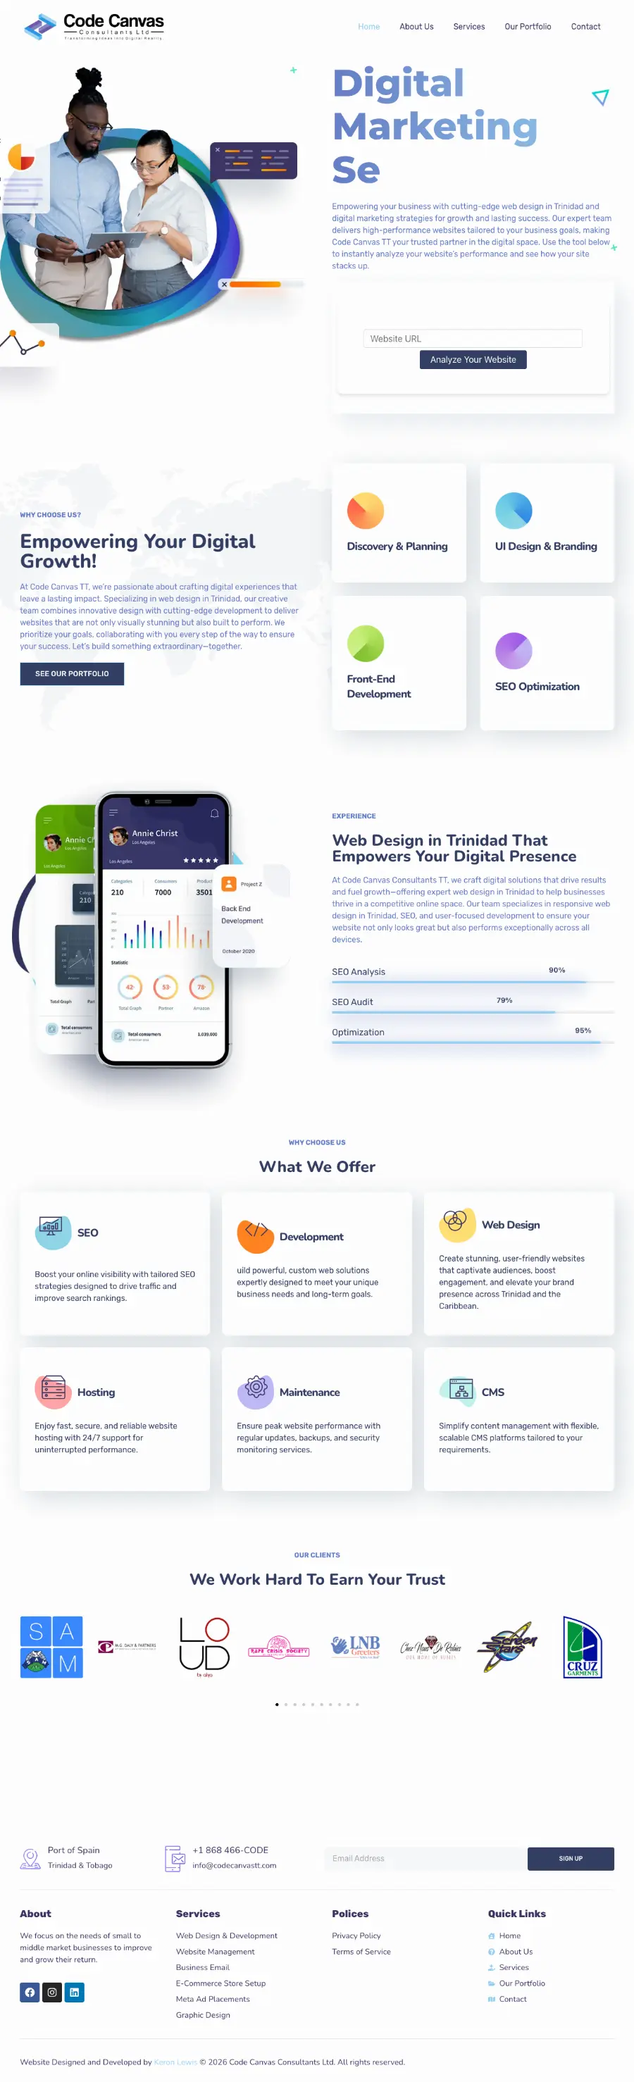
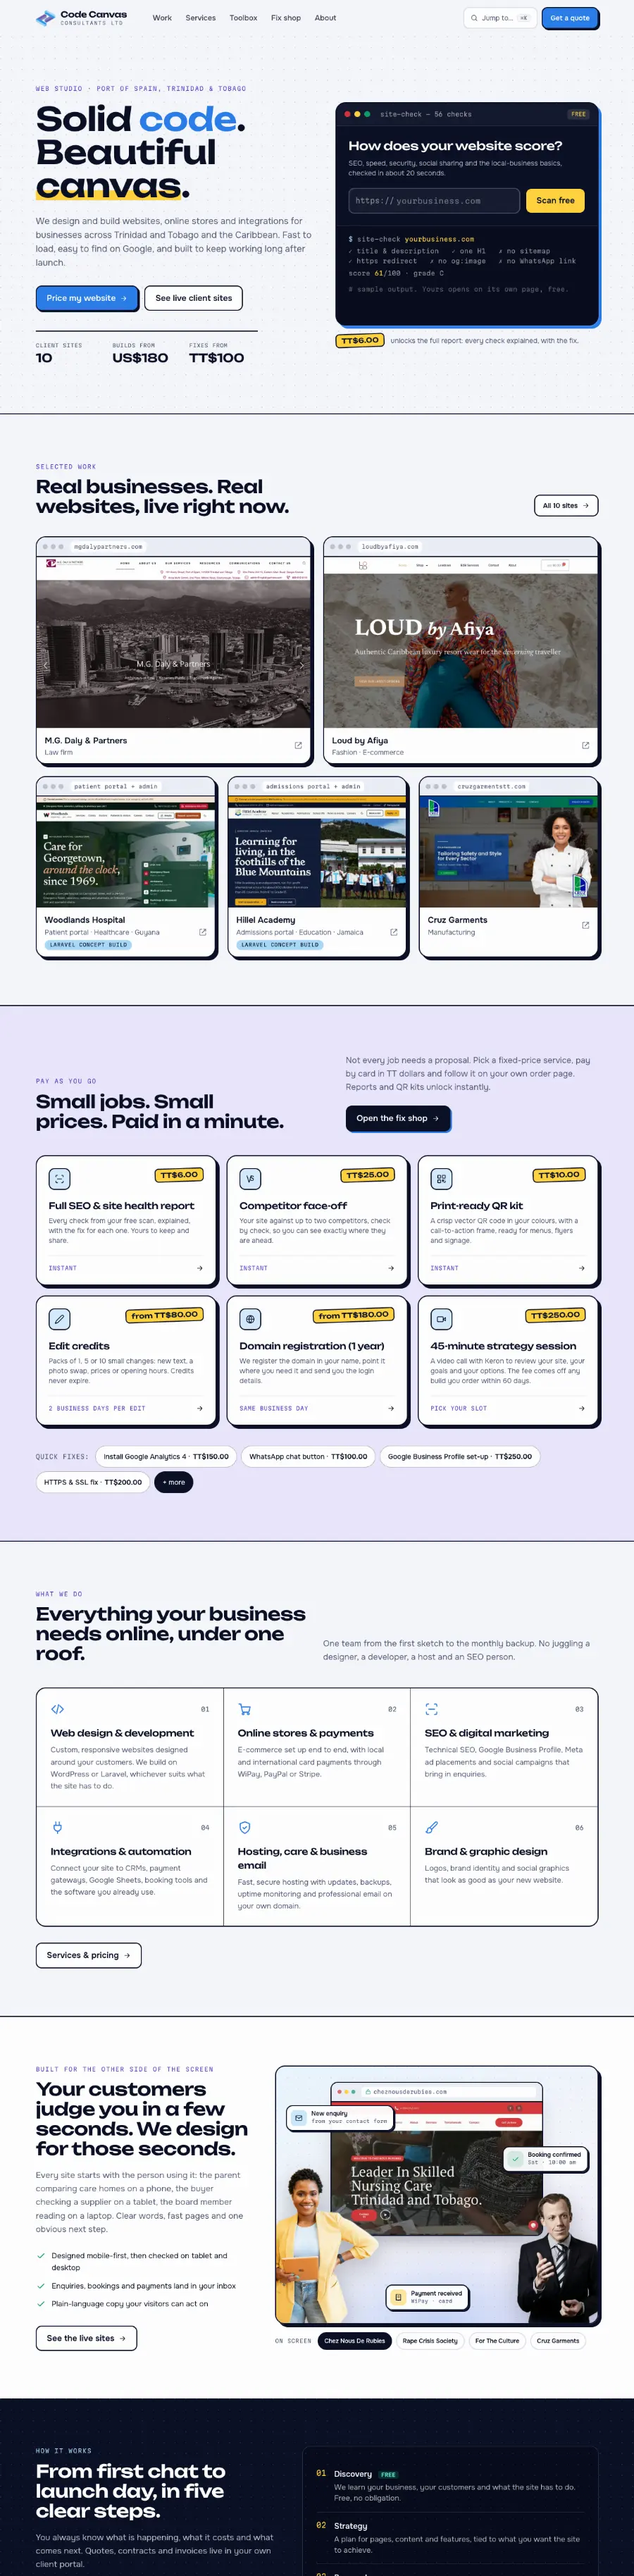
Code Canvas: describe the Laravel rebuild and its paid tools, refresh the screenshot

diff --git a/config/portfolio.php b/config/portfolio.php
@@ -325,31 +325,31 @@ return [
             'category' => 'Studio',
             'groups' => ['tools'],
             'url' => 'https://codecanvastt.com/',
-            'summary' => "My own studio's site. It includes an SEO audit tool I built, with payment handled through WiPay.",
-            'stack' => ['WordPress', 'Elementor', 'Custom tool', 'WiPay'],
+            'summary' => "My own studio's site, rebuilt in Laravel. A free site scan leads to small paid services, from a TT$6 SEO report to quick fixes, all paid by card through WiPay.",
+            'stack' => ['Laravel', 'WiPay', 'Site scanner', 'Admin back office'],
             'case_study' => [
-                'title' => 'A paid SEO audit, sold from the studio home page',
-                'summary' => "An SEO audit tool on my studio's site. Enter a web address, pay by card through WiPay, and a PDF report arrives by email.",
+                'title' => 'A studio site that sells small services on its own',
+                'summary' => "My studio's site, rebuilt in Laravel. Visitors scan their website for free, then buy a full report or a small fix by card through WiPay, without contacting me.",
                 'sections' => [
                     [
                         'heading' => 'What it is',
                         'body' => [
-                            'Code Canvas is my own web studio. Its home page carries an SEO audit tool that I built, so a visitor can check their own site and buy a full report without having to contact me first.',
+                            'Code Canvas is my own web studio. I moved its site off WordPress to Laravel in November 2026 so the tools on it could share one back office, one set of payments and one set of orders.',
                         ],
                     ],
                     [
-                        'heading' => 'How it works',
+                        'heading' => 'What visitors can do',
                         'points' => [
-                            'The visitor enters their website address and the tool analyses the site.',
-                            'The full audit is a paid report: more than 50 checks, including technical SEO, with recommendations for what to fix.',
-                            'Payment is by credit or debit card through WiPay, a Caribbean payment gateway.',
-                            'The report is produced as a PDF and emailed to the visitor straight away.',
+                            'Run a free scan of their website, then buy the full SEO and site health report for TT$6, with the fix for each problem found.',
+                            'Compare their site with up to two competitors, check a domain name, get a QR code kit, or book a strategy session.',
+                            'Pay by credit or debit card through WiPay, a Caribbean payment gateway. Each order gets a private page where reports unlock straight away and fixes show their progress.',
+                            'Work out a price for a full website with a quote calculator.',
                         ],
                     ],
                     [
                         'heading' => 'My part',
                         'body' => [
-                            'I designed and built the site on WordPress and Elementor, then wrote the audit tool and its WiPay payment step as custom work on top.',
+                            'I designed and built the whole site: the scanner, the payment flow, the order pages and an admin area for orders, prices and enquiries. That includes tools to find, export or erase a person\'s data on request, and old WordPress addresses redirect to their new pages.',
                         ],
                     ],
                 ],
